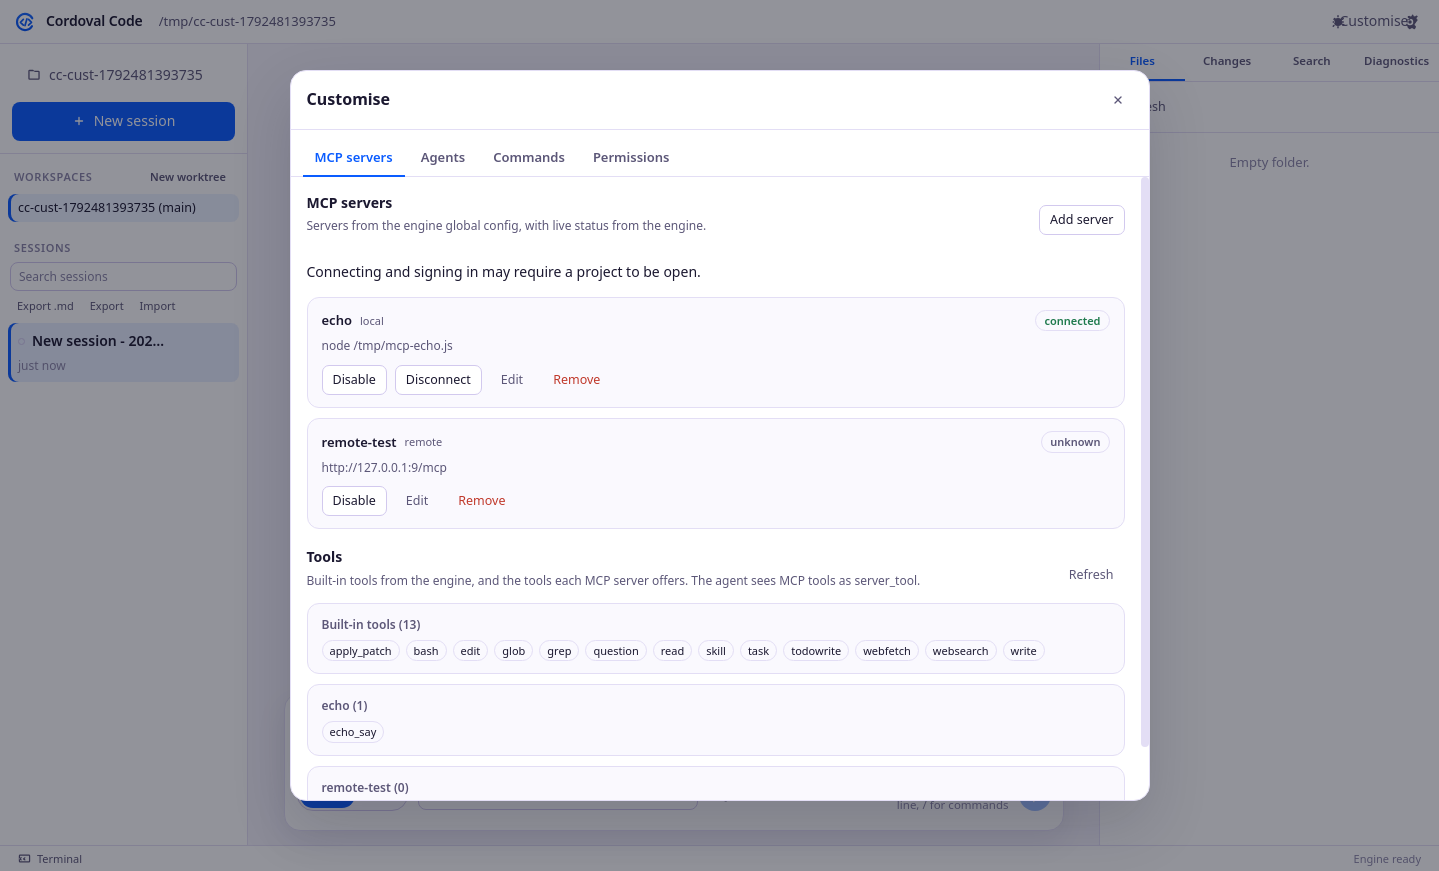
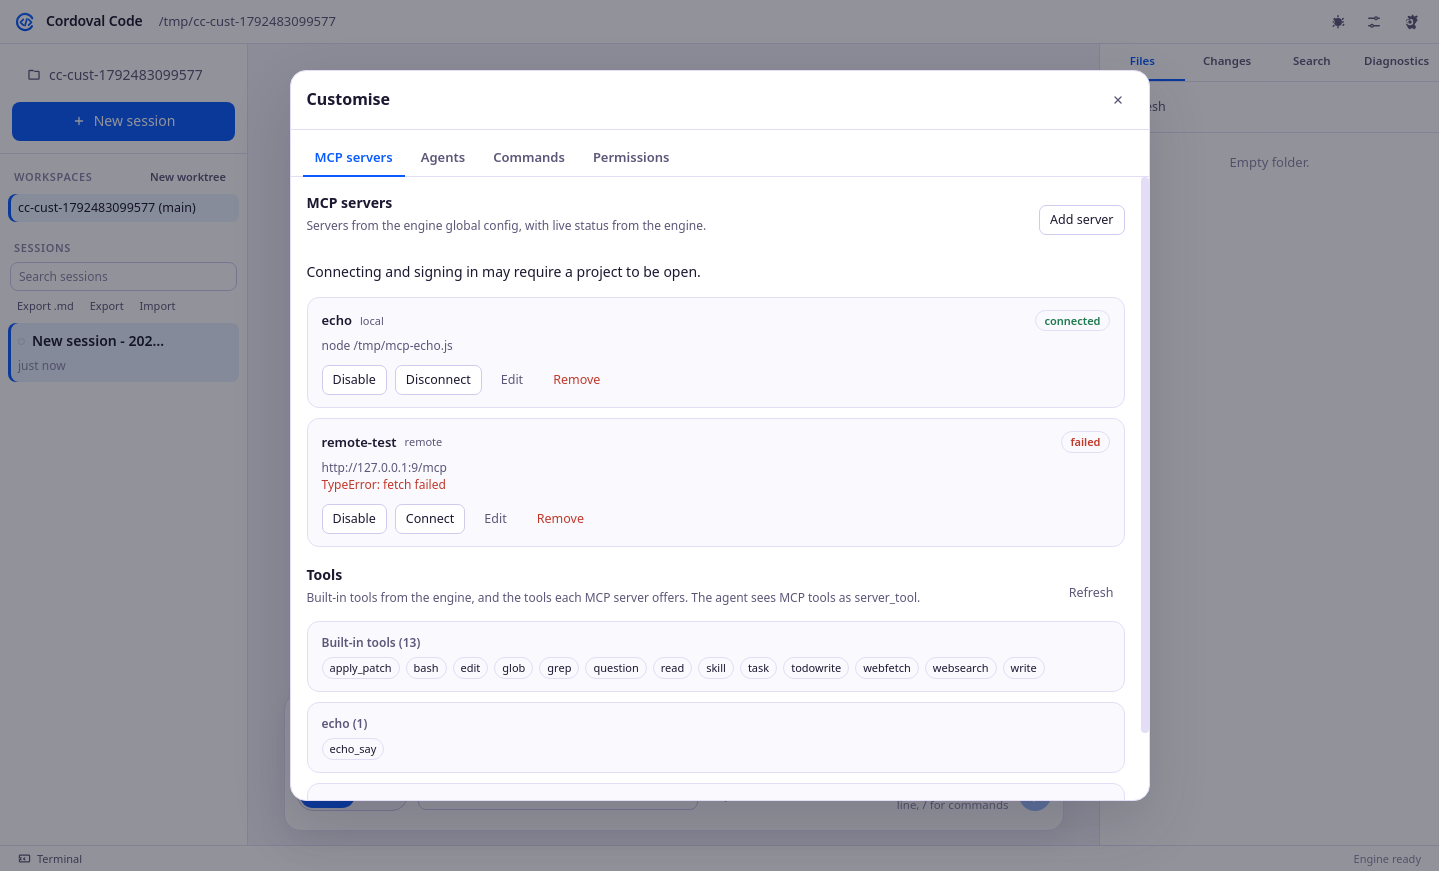
Customise: apply agent changes live, defer restarts until every session is idle; unreachable MCP servers show failed

diff --git a/src/main/main.js b/src/main/main.js
@@ -210,12 +210,52 @@ function registerIpc() {
     return require('./mcp-probe').listTools(entry);
   });
   ipcMain.handle('econfig:path', () => engineConfig.configFile());
-  ipcMain.handle('econfig:set', async (event, obj) => {
-    engineConfig.write(obj);
-    if (enginePromise) await enginePromise.catch(() => {});
-    const info = await engine.restart({ userData: app.getPath('userData'), keys: keys.readAll() });
-    enginePromise = Promise.resolve(info.url);
-    return info.url;
+  // Applies config changes live: the engine re-reads its global config file on any
+  // PATCH /global/config, so write the file (deletions included) and send a no-op patch.
+  // Falls back to a restart only if the live reload fails.
+  let pendingRemoval = false;
+  async function engineRequest(method, p, body) {
+    const url = enginePromise ? await enginePromise : null;
+    if (!url) throw new Error('Engine not running.');
+    const res = await fetch(url + p, { method, headers: { 'content-type': 'application/json', 'x-opencode-ticket': '1' }, body: body ? JSON.stringify(body) : undefined });
+    if (!res.ok) throw new Error('Engine returned ' + res.status);
+    return res;
+  }
+  ipcMain.handle('econfig:set', async (event, obj, opts) => {
+    const before = engineConfig.read();
+    const clean = engineConfig.write(obj);
+    // The engine keeps merged global config in memory, so removed entries only go away on a
+    // restart. The renderer only applies while every session is idle, so a restart is safe.
+    let removedOrRestart = false;
+    const removed0 = ['agent', 'command', 'mcp', 'permission', 'tools'].some((k) => {
+      const a = before[k], b = clean[k];
+      if (!a || typeof a !== 'object') return false;
+      if (!b || typeof b !== 'object') return Object.keys(a).length > 0;
+      return Object.keys(a).some((n) => !(n in b));
+    });
+    // Only agent changes reload reliably in the running engine (checked against 1.19.0);
+    // MCP, command and permission changes need a restart, which only happens while idle.
+    const changed = Object.keys(Object.assign({}, before, clean)).filter((k) => k !== '$schema' && JSON.stringify(before[k]) !== JSON.stringify(clean[k]));
+    if (changed.some((k) => k !== 'agent')) removedOrRestart = true;
+    const removed = removed0 || removedOrRestart;
+    if (opts && opts.writeOnly) { pendingRemoval = pendingRemoval || removed; return { url: enginePromise ? await enginePromise : null, restarted: false, applied: false }; }
+    try {
+      const mustRestart = removed || pendingRemoval || (opts && opts.forceRestart);
+      pendingRemoval = false;
+      if (mustRestart) throw new Error('restart needed');
+      const patch = Object.assign({}, clean); delete patch.$schema;
+      await engineRequest('PATCH', '/global/config', patch);
+      return { url: await enginePromise, restarted: false, applied: true };
+    } catch (err) {
+      if (enginePromise) await enginePromise.catch(() => {});
+      const info = await engine.restart({ userData: app.getPath('userData'), keys: keys.readAll() });
+      enginePromise = Promise.resolve(info.url);
+      return { url: info.url, restarted: true, applied: true };
+    }
+  });
+  ipcMain.handle('eproject:apply', async (event, dir) => {
+    await engineRequest('POST', '/instance/dispose?directory=' + encodeURIComponent(String(dir || '')));
+    return true;
   });
   ipcMain.handle('eproject:list', (event, dir, kind) => engineConfig.listProject(dir, kind));
   ipcMain.handle('eproject:write', (event, dir, kind, name, content) => engineConfig.writeProject(dir, kind, name, content));

diff --git a/src/renderer/app.js b/src/renderer/app.js
@@ -1239,6 +1239,43 @@
     updateSendButton();
   }
 
+  function anyBusy() {
+    return Object.keys(state.busyBySession || {}).some(function (id) { return isBusy(id); });
+  }
+
+  const pendingApply = { config: false, project: false, timer: null };
+  function queueApply(kind) {
+    pendingApply[kind] = true;
+    if (pendingApply.timer) return;
+    pendingApply.timer = setInterval(async function () {
+      if (anyBusy()) return;
+      clearInterval(pendingApply.timer);
+      pendingApply.timer = null;
+      const cfg = pendingApply.config, proj = pendingApply.project;
+      pendingApply.config = pendingApply.project = false;
+      try {
+        if (cfg) await applyEngineConfigNow(await window.cordoval.getEngineConfig());
+        else if (proj) { await window.cordoval.applyProjectFiles(state.directory); await afterConfigApplied(); }
+        toast('Customise changes applied.');
+      } catch (err) { toast(errorMessage(err), 'error'); }
+    }, 1000);
+  }
+
+  async function afterConfigApplied() {
+    state.commandsLoaded = false;
+    await ensureServerCommands().catch(function () {});
+    await loadCustomAgents();
+  }
+
+  async function applyEngineConfigNow(obj) {
+    const res = await window.cordoval.setEngineConfig(obj);
+    if (res && res.restarted) await restartEngineAndReconnect(res.url);
+    // Instances cache agents and commands; dispose the idle project instance so removals show too.
+    else if (state.directory) await window.cordoval.applyProjectFiles(state.directory).catch(function () {});
+    await afterConfigApplied();
+    return res && res.restarted ? 'restarted' : 'live';
+  }
+
   async function restartEngineAndReconnect(givenUrl) {
     if (!window.cordoval || !window.cordoval.restartEngine) return;
     const url = givenUrl || await window.cordoval.restartEngine();
@@ -2778,14 +2815,21 @@
     toast: toast,
     _handleEvent: function (e) { return handleEvent(e); },
     // Saves the engine's global config, restarts the engine and reconnects the UI.
+    // Saves the engine's global config and applies it live. If an agent is running, the
+    // change is written now and applied as soon as every session is idle, so nothing is cut off.
     saveEngineConfig: async function (obj) {
-      const busy = Object.keys(state.busyBySession || {}).length;
-      if (busy && !window.confirm('A session is still running. Saving restarts the engine and stops it. Continue?')) return false;
-      const url = await window.cordoval.setEngineConfig(obj);
-      await restartEngineAndReconnect(url);
-      state.commandsLoaded = false;
-      await ensureServerCommands().catch(function () {});
-      await loadCustomAgents();
+      if (anyBusy()) {
+        await window.cordoval.setEngineConfig(obj, { writeOnly: true });
+        queueApply('config');
+        toast('Saved. Changes apply when the running session finishes.');
+        return 'deferred';
+      }
+      return applyEngineConfigNow(obj);
+    },
+    applyProjectFiles: async function () {
+      if (anyBusy()) { queueApply('project'); toast('Saved. Changes apply when the running session finishes.'); return 'deferred'; }
+      await window.cordoval.applyProjectFiles(state.directory);
+      await afterConfigApplied();
       return true;
     },
     refreshSessions: function () { return refreshSessions(); },

diff --git a/test/live-apply.js b/test/live-apply.js
@@ -1,0 +1,35 @@
+// Customise changes apply without an engine restart, and wait for a running session.
+const { _electron: electron } = require('playwright-core');
+const path = require('path'); const fs = require('fs');
+(async () => {
+  const proj = '/tmp/cc-live-' + Date.now(); fs.mkdirSync(proj);
+  const app = await electron.launch({ executablePath: require('electron'), args: [path.join(__dirname, '..'), '--no-sandbox', '--project=' + proj], env: { ...process.env, CORDOVAL_USER_DATA: '/tmp/cc-ud-live-' + Date.now() } });
+  const page = await app.firstWindow(); page.on('pageerror', e => console.log('pageerror', e.message));
+  page.on('dialog', d => d.accept());
+  await page.waitForTimeout(6000);
+  const r = {}; const url0 = await page.evaluate(() => window.Api.engineUrl());
+  const agents = () => page.evaluate(async () => (await window.Api.request('/agent')).map(a => a.name));
+  let cfg = await page.evaluate(() => window.cordoval.getEngineConfig());
+  cfg.agent = { alpha: { description: 'a', mode: 'primary', prompt: 'Be brief.' } };
+  r.mode1 = await page.evaluate((c) => window.CordovalApp.saveEngineConfig(c), cfg);
+  r.added = (await agents()).includes('alpha');
+  delete cfg.agent.alpha;
+  r.mode2 = await page.evaluate((c) => window.CordovalApp.saveEngineConfig(c), cfg);
+  r.removed = !(await agents()).includes('alpha');
+  r.sameEngine = url0 === await page.evaluate(() => window.Api.engineUrl());
+  // while busy
+  await page.fill('#composer-input', 'Write a 300 word story about a lighthouse keeper. Do not use tools.');
+  await page.keyboard.press('Enter');
+  await page.waitForSelector('#btn-stop', { state: 'visible', timeout: 30000 });
+  cfg.agent = { beta: { description: 'b', mode: 'primary', prompt: 'Be brief.' } };
+  r.mode3 = await page.evaluate((c) => window.CordovalApp.saveEngineConfig(c), cfg);
+  r.notYet = !(await agents()).includes('beta');
+  for (let i = 0; i < 120 && await page.isVisible('#btn-stop'); i++) await page.waitForTimeout(1000);
+  await page.waitForTimeout(2500);
+  const m = await page.evaluate(async () => window.Api.getMessages(window.CordovalApp.sessionId()));
+  const a = m.filter(x => x.info.role === 'assistant').pop();
+  r.sessionFinished = !!(a && a.info.time.completed && !a.info.error);
+  r.storyWords = a ? a.parts.filter(p => p.type === 'text').map(p => p.text).join(' ').split(/\s+/).length : 0;
+  r.appliedAfter = (await agents()).includes('beta');
+  console.log('[live]', JSON.stringify(r)); await app.close();
+})();

diff --git a/src/renderer/customize.js b/src/renderer/customize.js
@@ -33,6 +33,7 @@
     needs_auth: '#b45309',
     needs_client_registration: '#b45309',
     disabled: 'var(--faint, #94a3b8)',
+    connecting: 'var(--muted, #6b7280)',
   };
 
   const CARD_CSS = 'border:1px solid var(--border, #e5e7eb); border-radius:12px; background:var(--panel-2, #fafafa); padding:12px 14px; margin-bottom:10px;';
@@ -355,7 +356,7 @@
       if (saved === false) {
         ok = false;
         toast('Save cancelled.', 'error');
-      } else {
+      } else if (saved !== 'deferred') {
         toast('Saved');
       }
     } catch (err) {
@@ -379,7 +380,7 @@
 
   // Project .opencode files are read when the engine starts, so restart it to pick them up.
   async function reloadEngine() {
-    try { await window.CordovalApp.saveEngineConfig(deepCopy(config)); } catch (err) { toast('Engine reload failed: ' + errMsg(err), 'error'); }
+    try { await window.CordovalApp.applyProjectFiles(); } catch (err) { toast('Engine reload failed: ' + errMsg(err), 'error'); }
   }
 
   // ---- modal DOM ----
@@ -640,8 +641,17 @@
     typeEl.style.cssText = 'font-size:11px; color:var(--muted, #6b7280);';
     const spacer = el('span');
     spacer.style.cssText = 'flex:1 1 auto;';
-    const live = mcpLive[name];
-    const status = live && live.status ? String(live.status) : '';
+    let live = mcpLive[name];
+    let status = live && live.status ? String(live.status) : '';
+    // The engine leaves servers it could not reach out of /mcp. Use our own probe to tell
+    // "failed" from "still connecting".
+    if (!status && entry && entry.enabled !== false) {
+      const probe = mcpToolCache[name];
+      if (!probe) loadServerTools(name);
+      if (probe && probe.state === 'error' && !/sign in/i.test(probe.error)) { status = 'failed'; live = { status, error: probe.error }; }
+      else if (probe && probe.state === 'error') { status = 'needs_auth'; live = { status, error: probe.error }; }
+      else status = 'connecting';
+    }
     const chip = statusChip(status && status !== 'connected' && entry && entry.enabled === false ? 'disabled' : status);
     if (live && live.error) chip.title = String(live.error);
     headRow.appendChild(nameEl);

diff --git a/src/main/preload.js b/src/main/preload.js
@@ -15,7 +15,8 @@ contextBridge.exposeInMainWorld('cordoval', {
   mcpTools: (name) => ipcRenderer.invoke('mcp:tools', name),
   getEngineConfig: () => ipcRenderer.invoke('econfig:get'),
   engineConfigPath: () => ipcRenderer.invoke('econfig:path'),
-  setEngineConfig: (obj) => ipcRenderer.invoke('econfig:set', obj),
+  setEngineConfig: (obj, opts) => ipcRenderer.invoke('econfig:set', obj, opts),
+  applyProjectFiles: (dir) => ipcRenderer.invoke('eproject:apply', dir),
   listProjectFiles: (dir, kind) => ipcRenderer.invoke('eproject:list', dir, kind),
   writeProjectFile: (dir, kind, name, content) => ipcRenderer.invoke('eproject:write', dir, kind, name, content),
   deleteProjectFile: (dir, kind, name) => ipcRenderer.invoke('eproject:delete', dir, kind, name),

diff --git a/test/customize.js b/test/customize.js
@@ -34,7 +34,7 @@ const shots = path.join(__dirname, '..', 'screenshots');
   await field('Type').selectOption('remote'); await page.waitForTimeout(200);
   await field('URL').fill('http://127.0.0.1:9/mcp');
   await saveForm();
-  r.remoteSaved = !!(cfg().mcp || {})['remote-test']; r.remoteStatus = ((await api('/mcp'))['remote-test'] || {}).status || 'none';
+  r.remoteSaved = !!(cfg().mcp || {})['remote-test']; await page.waitForTimeout(3000); r.remoteChip = await page.evaluate(() => /remote-test[\s\S]*?failed/.test(document.querySelector('#customize-backdrop').textContent));
   await page.waitForTimeout(1000);
   await page.screenshot({ path: path.join(shots, '38-mcp-servers.png') });
   // disable echo
